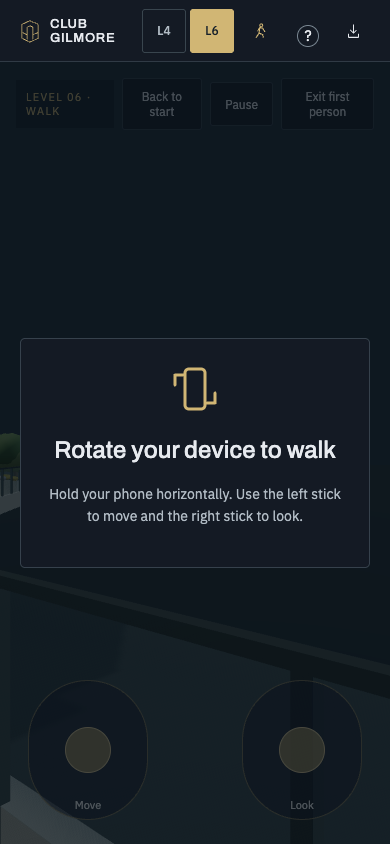
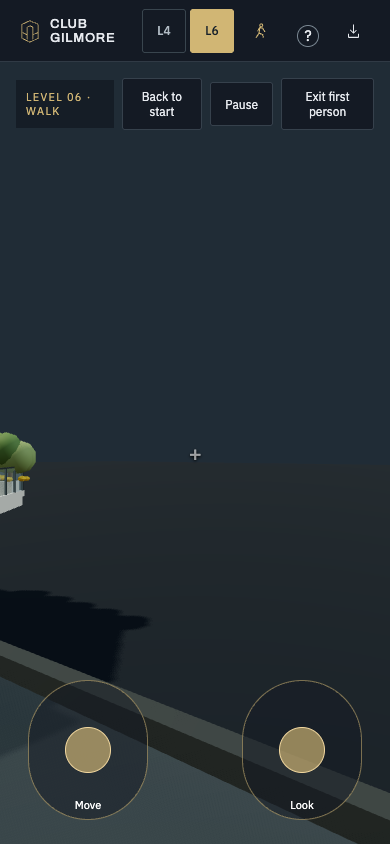
Refactor first-person navigation for improved mobile experience and UI updates

diff --git a/src/firstPerson/FirstPersonController.js b/src/firstPerson/FirstPersonController.js
@@ -11,7 +11,7 @@ export class FirstPersonController {
     this.onStateChange = onStateChange; this.requestRender = requestRender;
     this.camera = new PerspectiveCamera(68, 1, .05, 500);
     this._position = this.config.spawn.clone(); this.yaw = this.config.yaw; this.pitch = 0;
-    this._active = false; this._paused = false; this._portraitBlocked = false; this.avatar = null;
+    this._active = false; this._paused = false; this.avatar = null;
     this.motionSpeed = 0; this.walkPhase = 0;
     this.euler = new Euler(0, 0, 0, 'YXZ');
     this.input = new FirstPersonInput(domElement, { camera: this.camera, onLook: (x, y) => this.look(x, y), onPause: () => this.pause(), onActivity: () => this.requestRender?.(), onLockDenied: () => this.requestRender?.() });
@@ -38,9 +38,9 @@ export class FirstPersonController {
   }
   enter() {
     if (this._active) { this.resume(); return; }
-    this._active = true; this._paused = this._portraitBlocked; this._position.copy(this.config.spawn); this.yaw = this.config.yaw; this.pitch = 0; this.motionSpeed = 0;
-    this.input.setEnabled(!this._paused); if (this.avatar?.root) this.avatar.root.visible = true;
-    this.syncCamera(); this.emit(); if (!this._paused) this.input.requestLock(); this.requestRender?.();
+    this._active = true; this._paused = false; this._position.copy(this.config.spawn); this.yaw = this.config.yaw; this.pitch = 0; this.motionSpeed = 0;
+    this.input.setEnabled(true); if (this.avatar?.root) this.avatar.root.visible = true;
+    this.syncCamera(); this.emit(); this.input.requestLock(); this.requestRender?.();
   }
   exit() {
     if (!this._active) return;
@@ -54,7 +54,6 @@ export class FirstPersonController {
   }
   resume() {
     if (!this._active) return this.enter();
-    if (this._portraitBlocked) { this._paused = true; this.input.setEnabled(false); this.emit(); return; }
     this._paused = false; this.input.setEnabled(true); this.emit(); this.input.requestLock(); this.requestRender?.();
   }
   look(deltaYaw, deltaPitch) {
@@ -93,15 +92,13 @@ export class FirstPersonController {
   }
   resize(width, height) {
     this.camera.aspect = width / Math.max(1, height); this.camera.updateProjectionMatrix();
-    this._portraitBlocked = this.input.isCoarse && height > width;
-    if (this._active && this._portraitBlocked) this.pause();
   }
   syncCamera() {
     this.camera.position.copy(this._position); this.camera.position.y = this.config.floorHeight + this.config.eyeHeight;
     this.euler.set(this.pitch, this.yaw, 0, 'YXZ'); this.camera.quaternion.setFromEuler(this.euler);
   }
   reset() { this._position.copy(this.config.spawn); this.yaw = this.config.yaw; this.pitch = 0; this.motionSpeed = 0; this.syncCamera(); this.emit(); this.requestRender?.(); }
-  emit() { this.onStateChange?.({ active: this._active, paused: this._paused, portraitBlocked: this._portraitBlocked, position: this.position, yaw: this.yaw, camera: this.camera }); }
+  emit() { this.onStateChange?.({ active: this._active, paused: this._paused, position: this.position, yaw: this.yaw, camera: this.camera }); }
   dispose() { this.exit(); this.input.controls?.removeEventListener('change', this.handlePointerLockLook); this.input.dispose(); this.navigationWorld?.dispose?.(); this.avatar?.dispose?.(); if (this.avatar?.root?.parent) this.avatar.root.parent.remove(this.avatar.root); }
 }
 

diff --git a/index.html b/index.html
@@ -20,11 +20,10 @@
    <div id="hover-label" hidden></div>
    <div id="fp-hud" hidden>
     <div class="fp-crosshair" aria-hidden="true">+</div>
-    <div class="fp-toolbar"><span>LEVEL 06 · WALK</span><button id="fp-reset">Back to start</button><button id="fp-pause">Pause</button><button id="fp-exit">Exit first person</button></div>
+    <div class="fp-toolbar"><span>LEVEL 06 · WALK</span><button id="fp-speed" aria-label="Walking speed: Medium. Tap to change">Medium</button><button id="fp-reset">Back to start</button><button id="fp-pause">Pause</button><button id="fp-exit">Exit first person</button></div>
     <p class="fp-help">WASD / arrows to walk · Mouse to look · Esc to pause</p>
     <div class="fp-sticks"><div id="fp-move-stick" class="fp-stick" role="group" aria-label="Movement joystick"><span class="stick-thumb"></span><span class="stick-label">Move</span></div><div id="fp-look-stick" class="fp-stick" role="group" aria-label="Look joystick"><span class="stick-thumb"></span><span class="stick-label">Look</span></div></div>
     <div id="fp-pause-overlay" class="fp-overlay" role="dialog" aria-modal="true" aria-labelledby="fp-pause-title" hidden><div class="fp-card"><h2 id="fp-pause-title">Take a moment.</h2><p>WASD or arrow keys to walk. Move your mouse to look around. If mouse capture is unavailable, drag to look.</p><button id="fp-resume">Resume walking</button><button id="fp-exit-paused">Return to model</button></div></div>
-    <div id="fp-rotate-overlay" class="fp-overlay" hidden><div class="fp-card"><svg viewBox="0 0 24 24" aria-hidden="true"><rect x="7" y="2" width="10" height="20" rx="2"/><path d="M2 10V5h4m16 9v5h-4"/></svg><h2>Rotate your device to walk</h2><p>Hold your phone horizontally. Use the left stick to move and the right stick to look.</p></div></div>
    </div>
    <div class="view-heading"><h1>Explore Club Gilmore.</h1><p>Find your space. Take a closer look.</p></div>
    <div id="loading" role="status"><span class="loading-ring"></span><p>Preparing your view…</p></div>

diff --git a/src/main.js b/src/main.js
@@ -10,6 +10,7 @@ import { FirstPersonController } from './firstPerson/FirstPersonController.js';
 import { FirstPersonAvatar } from './firstPerson/FirstPersonAvatar.js';
 import { NavigationWorld } from './firstPerson/NavigationWorld.js';
 let firstPerson=null,lastFrameTime=0;
+const speeds=[['Slow',2.2],['Medium',3.6],['Fast',5.4]];let speedIndex=1;
 const walking=()=>firstPerson?.active===true;
 let activeLevel=location.hash.startsWith('#L6')||new URLSearchParams(location.search).get('level')==='6'?6:4;
 let rooms=activeLevel===6?level6Rooms:level4Rooms;
@@ -108,11 +109,9 @@ function syncFirstPersonUI(){
  $('fp-hud').hidden=!active;
  controls.enabled=!active;
  if(active){
-  const portrait=firstPerson.input.isCoarse&&vh>vw;
   const wasPaused=!$('fp-pause-overlay').hidden;
-  $('fp-rotate-overlay').hidden=!portrait;
-  $('fp-pause-overlay').hidden=portrait||!firstPerson.paused;
-  if(firstPerson.paused&&!portrait&&!wasPaused&&document.hasFocus()&&!$('about').open)$('fp-resume').focus({preventScroll:true});
+  $('fp-pause-overlay').hidden=!firstPerson.paused;
+  if(firstPerson.paused&&!wasPaused&&document.hasFocus()&&!$('about').open)$('fp-resume').focus({preventScroll:true});
   if(!firstPerson.paused&&wasPaused)renderer.domElement.focus({preventScroll:true});
  }
  requestRender();

diff --git a/docs/level-6-first-person-plan.md b/docs/level-6-first-person-plan.md
@@ -81,9 +81,9 @@ The player will spawn on the marked east circulation path at approximately trace
 ## Mobile Experience
 
 - Detect touch/coarse-pointer capability instead of relying only on viewport width.
-- In portrait, pause movement and show **Rotate your device to walk**.
+- Walk in both portrait and landscape (revised: the earlier portrait "Rotate your device to walk" block was removed at the user's request).
 - Do not force orientation through browser APIs.
-- In landscape, display two vertical joysticks:
+- In either orientation, display two vertical joysticks:
   - Left: forward, backward, and strafing movement.
   - Right: yaw and pitch look.
 - Support simultaneous pointers, pointer capture, dead zones, clamped travel, safe-area insets, and automatic recentering.
